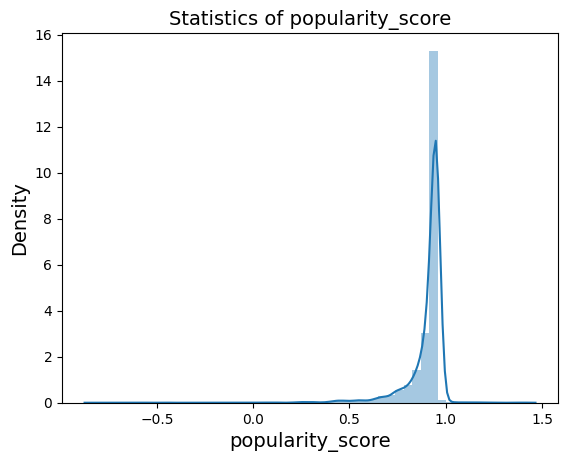
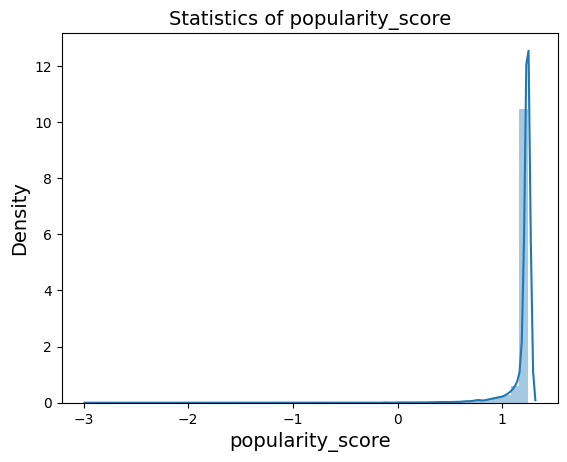
final version

diff --git a/README.md b/README.md
@@ -116,7 +116,7 @@ To overcome these limitations, the focus of the analysis shifted to the big_matr
 Missing values and duplicates were removed from all relevant datasets.
 Invalid timestamps were filtered out from the interaction logs.
 To avoid overloading the model with uninformative features, I examined the distribution of categorical variables in `user_features.csv`. Features where a single category represented over 90% of the values were removed, as they lacked variability and would not meaningfully contribute to learning user preferences.
-Columns that ended in `_range` (e.g., `age_range`) were also dropped to avoid redundancy with the original categorical variables.
+Columns that ended in `_range` (e.g., `follow_user_num_range`) were also dropped to avoid redundancy with the original categorical variables.
 
 All features including tags, user attributes, and popularity scores were merged with the main interaction dataset.
 
@@ -125,14 +125,10 @@ All features including tags, user attributes, and popularity scores were merged 
 **Score popularity**
 To capture the overall appeal of each video, I engineered a popularity score from `user_item_daily.csv` using a linear regression model. It was trained to predict the average watch_ratio of a video based on aggregated engagement metrics such as:
 
-* Number of impressions (show_cnt)
-
+* Number of impressions
 * Plays
-
 * Likes
-
 * Shares
-
 * Comments
 
 The resulting score was used as an additional numeric feature for each video, providing a supervised proxy for popularity.
@@ -141,7 +137,7 @@ Distribution of popularity score: [popularity_score.png](images/popularity_score
 
 **Video Tag Encoding**
 
-Video metadata included tag IDs ranging from 0 to 30. These were converted into multi-hot vectors using binary encoding, allowing each video to be associated with multiple content categories simultaneously.
+Video metadata included tags ranging from 0 to 30. These were converted into multi-hot vectors using binary encoding, allowing each video to be associated with multiple content categories simultaneously.
 
 **User Feature Transformation**
 
@@ -153,14 +149,12 @@ The watch_ratio was highly skewed, so I applied a logarithmic transformation (lo
 
 **Dataset Preparation for Training**
 
-The final dataset was split into training and test sets (80/20 split). The training set was further divided into training and validation subsets. TensorFlow tf.data.Dataset pipelines were used to prepare and batch the data efficiently.
+The final dataset was split into training and test sets (80/20 split). The training set was further divided into training and validation subsets.
 
 Each sample was represented as:
 
 * Categorical IDs: user_id, video_id, and user attributes
-
 * Dense features: popularity_score, tag_multi_hot
-
 * Target: the log-transformed watch_ratio
 
 ---
@@ -202,11 +196,17 @@ The model consists of the following key components:
 #### Training and Evaluation
 
 I trained the model using the train and validation dataframe, employing early stopping to prevent overfitting. To evaluate the model’s performance, I implemented and used several metrics including NDCG@k, MAE, RMSE, [Serendipity](images/serendipity.png), Popularity, and [Spearman correlation](https://en.wikipedia.org/wiki/Spearman's_rank_correlation_coefficient).
-For the baseline model, which outputs constant predictions for every video, the Spearman correlation is not defined. In this case, I assume a value of 0, representing the model’s complete inability to sort items by relevance.
+* NDCG@k for ranking quality
+* Spearman correlation for ranking consistency.
+* MAE and RMSE for prediction accuracy.
+* Serendipity to measure novelty and diversity.
+* Popularity to detect bias towards popular items.
+
+For the baseline model, which outputs constant predictions for every video, the Spearman correlation is not defined.So in this case, I assume a value of 0, representing the model’s complete inability to sort items by relevance.
 
 #### Hyperparameter Tuning
 
-Given the computational cost of hyperparameter optimization, I focused on **embedding dimension** and **dropout rate** as the main hyperparameters to tune. The **Keras Tuner** was used to perform the hyperparameter search. The hyperparameters tested were:
+I also try to optimize the model’s performance by tuning hyperparameters but given the computational cost of hyperparameter optimization, I focused on **embedding dimension** and **dropout rate** as the main hyperparameters to tune. The **Keras Tuner** was used to perform the hyperparameter search. The hyperparameters tested were:
 
 * **Embedding dimension:** Ranges from 8 to 32 with a step of 8.
 * **Dropout rate:** Ranges from 0.1 to 0.3 to prevent overfitting.
@@ -246,32 +246,40 @@ model = tf.keras.models.load_model('trained_models/NCF-extended.keras')
 ) 
 and use the provided function to generate the top-k recommendations.
 
+Parameters:
+* test_df: DataFrame containing test data (must include user_id, video_id, score_popularity, tag_multi_hot)
+* user_features_df: DataFrame containing user features
+* model: trained model with a .predict method
+* k: number of recommendations to return per user
+
 ---
 
 ### 5. **Results**
 
-For evaluation, I focus exclusively on the big_matrix → small_matrix setup, where the model is trained on the larger, more diverse dataset and tested on the smaller, dense subset.
+For this part, I will focus exclusively on the big_matrix → small_matrix setup, where the model is trained on the larger, more diverse dataset and tested on the smaller, dense subset.
 
 | Model             | NDCG@10 | MAE@10 | RMSE@10 | Serendipity@10 | Avg Popularity@10 | Spearman |
 |-------------------|---------|--------|---------|----------------|-------------------|----------|
 | NCF               | 0.8772  | 0.9249 | 1.3514  | 0.0128         | 1.2288            | 0.6201   |
 | Baseline          | 0.8142  | 0.5043 | 0.6945  | 0.1243         | 1.0871            | 0        |
-| PopularityBaseline| 0.7905  | 1.5349 | 1.7366  | 0.0000         | 1.2464            | 0.2454   |
+| PopularityBaseline| 0.7905  | 0.6311 | 0.9016  | 0.0000         | 1.2464            | 0.2454   |
 
 
 ---
 
-The **NCF model** clearly delivers superior ranking performance over the baseline model, achieving a nearly **10% improvement in NDCG\@10**. This demonstrates its strength in generating top-k recommendations that align with user preferences.
+The **NCF model** clearly delivers superior ranking performance over the baseline models, achieving a nearly **10% improvement in NDCG\@10**.
 
-However, when looking at **MAE** and **RMSE**, the baseline outperforms NCF. This might seem contradictory at first, but is explained by the **distribution of the watch ratio**, which is heavily concentrated around the mean in both training and testing sets (see [train_watch_ratio.png](images/train_watch_ratio.png) and [test_watch_ratio](images/test_watch_ratio.png)). The baseline simply predicts the global mean watch ratio, which minimizes average error in such a skewed distribution — hence, lower MAE/RMSE.
+However, when looking at **MAE** and **RMSE**, the baseline models outperforms NCF. This might seem contradictory at first, but is explained by the **distribution of the watch ratio**, which is heavily concentrated around the mean in both training and testing sets (see [train_watch_ratio.png](images/train_watch_ratio.png) and [test_watch_ratio](images/test_watch_ratio.png)). The baseline simply predicts the global mean watch ratio, which minimizes average error in such a skewed distribution hence lower MAE/RMSE. Similarly, concerning the PopularityBaseline, which ranks videos based on their average popularity: the **popularity scores** are highly concentrated within a narrow range (see [popularity_score.png](images/popularity_score.png)), so the predictions also tend to be close to the mean.
 
-When filtering out extreme values of watch ratio (e.g., above the 85th percentile), **NCF's MAE and RMSE improve**, but at the cost of a slight drop in NDCG. 
+Filtering out extreme values of the watch ratio (e.g., those above the 85th percentile) leads to improved MAE and RMSE for NCF. This improvement, however, comes with a slight decrease in NDCG, reflecting a trade-off between prediction accuracy and ranking quality.
 
-On the **serendipity** and **average popularity** metrics, both models show **limited diversity** in recommendations. The recommendations tend to favor **popular videos**, as reflected in the high popularity scores. This aligns with observations from the ["KuaiRec paper"](https://arxiv.org/pdf/2202.10842), which warns about *popularity bias* in collaborative filtering: users are often exposed to, and trained on, a limited set of popular items, leading models to overfit on them. In our case, most users also watched similar tag categories, particularly tag 28 (see [feats.png](images/feats.png)) which further reinforces the popularity bias.
+Regarding the **serendipity** and **average popularity** metrics, all three models show limited diversity in their recommendations, but with a notable difference. The simple global mean baseline achieves significantly higher serendipity compared to the two more personalized models. This may be because the mean baseline makes non-personalized, neutral predictions, which tend to be less biased and therefore more diverse by nature.
 
-Therefore, while NCF excels in **ranking relevant videos**, it doesn't take much risk in **exploring less popular or niche content**, which slightly limits its ability to diversify recommendations.
+In contrast, the two personalized models strongly favor popular content, as reflected by their high average popularity scores. This trend is consistent with the popularity bias described in the ["KuaiRec paper"](https://arxiv.org/pdf/2202.10842), where collaborative filtering systems tend to overfit popular items since users mostly interact with a limited set of widely consumed content. This bias is further reinforced in our dataset, where users frequently engage with similar tag categories, particularly tag 28 (see [feats.png](images/feats.png)).
 
 Additionally, the NCF model demonstrates a strong overall alignment between predicted video rankings and actual user preferences, confirming its effectiveness in capturing meaningful ranking patterns. In contrast, the global mean baseline cannot differentiate between items and thus fails to produce any meaningful ranking. The Popularity Baseline shows some capacity to rank videos based on popularity but is notably less effective than NCF, which highlights that popularity alone does not necessarily align with individual user preferences.
+
+Therefore, while NCF excels in **ranking relevant videos**, it doesn't take much risk in **exploring less popular or niche content**, which slightly limits its ability to diversify recommendations.
 
 Nonetheless, since the project goal is to **recommend videos that the user is likely to enjoy**, the strong NDCG and Spearman results for NCF suggest that it effectively fulfills this objective.
 
